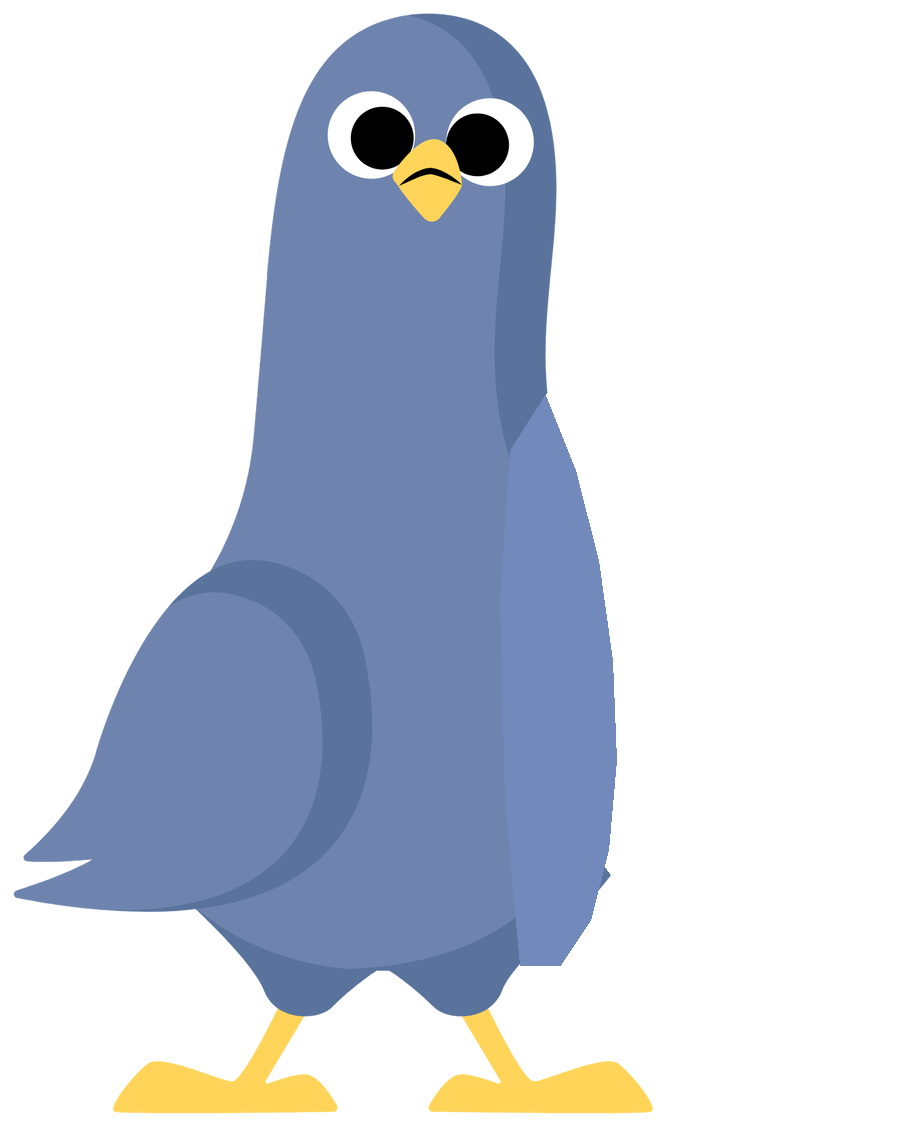
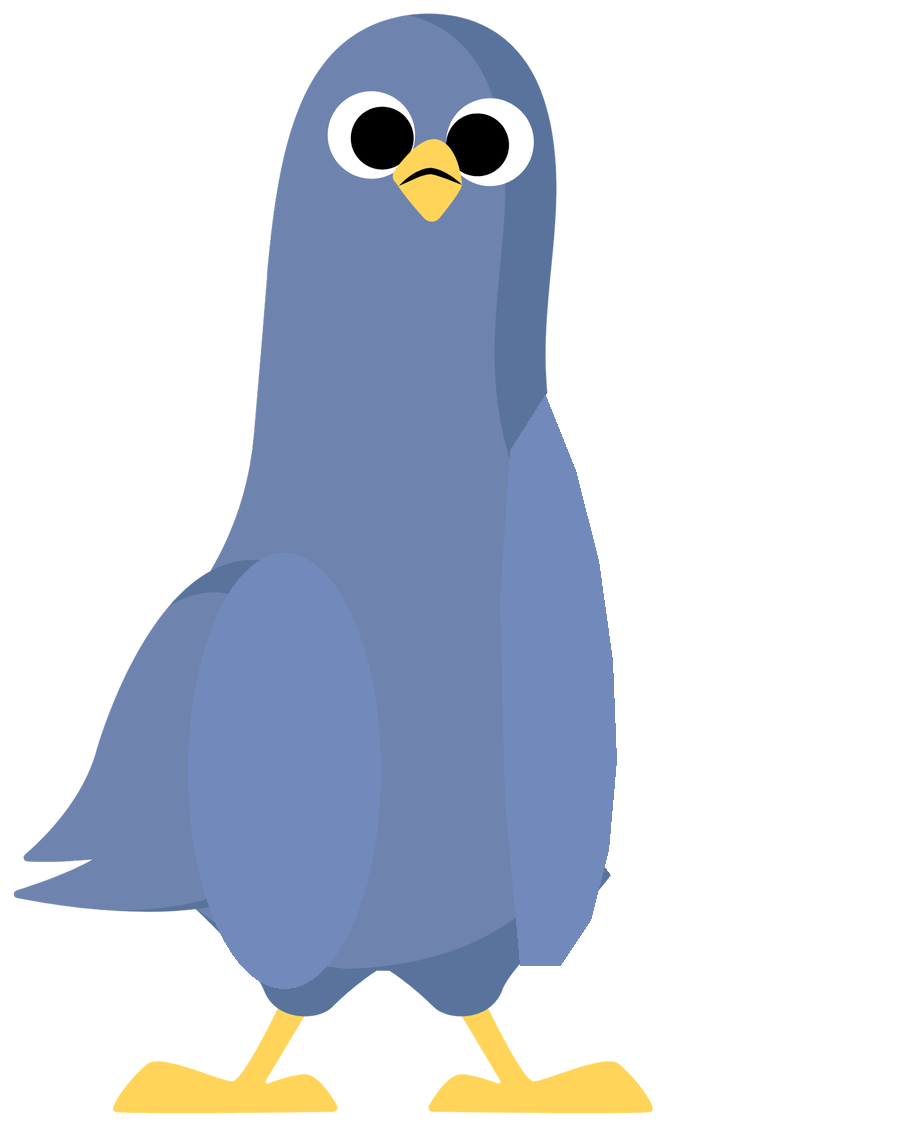
Zdaj: "zelo slaba" is a shoulder shrug with both wings
The folded wing on the chest becomes a third layer (golob-krilce.png) that lifts a little;
with the raised wing stretching and the shoulders going up, the pigeon shrugs twice in a
row. The tongue is gone from this mood.

Changed region(s): [[0.2178, 0.4969, 0.4356, 0.9006]]

diff --git a/src/theme.css b/src/theme.css
@@ -287,9 +287,9 @@ p { margin: 0; }
 .golob-mood-figure { position: absolute; inset: 0; transform-origin: 50% 90%; }
 .golob-layer { position: absolute; inset: 0; width: 100%; height: 100%; object-fit: contain; }
 .golob-layer.telo { z-index: 1; }
-.golob-layer.krilo { transform-origin: 63.3% 55%; z-index: 2; }
+.golob-layer.krilce { transform-origin: 32% 50%; z-index: 2; } /* folded wing: lifts from its top */
+.golob-layer.krilo { transform-origin: 63.3% 55%; z-index: 3; }
 .golob-part { position: absolute; inset: 0; width: 100%; height: 100%; overflow: visible; }
-.golob-mood-figure .golob-part { z-index: 3; } /* the tongue sits above both layers */
 .golob-mood.dobro .golob-mood-figure { animation: golob-dance 1.1s ease-in-out infinite; }
 .golob-mood.dobro .krilo { animation: golob-flap 0.55s ease-in-out infinite; }
 .golob-mood .note { opacity: 0; animation: golob-note 2.2s ease-out infinite; }
@@ -298,8 +298,10 @@ p { margin: 0; }
 .golob-mood.zmerno .krilo { animation: golob-soso 1.3s ease-in-out infinite; }
 .golob-mood.slabo .golob-mood-figure { animation: golob-shrug-body 2.4s ease-in-out infinite; }
 .golob-mood.slabo .krilo { animation: golob-shrug-wing 2.4s ease-in-out infinite; }
-.golob-mood.zeloslabo .krilo { animation: golob-droop 1.6s ease-in-out infinite; }
-.golob-mood.zeloslabo .tongue { transform-origin: 430px 212px; animation: golob-tongue 0.9s ease-in-out infinite; }
+/* zelo slaba: a shoulder shrug with both wings, twice in a row */
+.golob-mood.zeloslabo .golob-mood-figure { animation: golob-shrug2-body 2.6s ease-in-out infinite; }
+.golob-mood.zeloslabo .krilo { animation: golob-shrug2-wing 2.6s ease-in-out infinite; }
+.golob-mood.zeloslabo .krilce { animation: golob-shrug2-front 2.6s ease-in-out infinite; }
 .golob-mood.nevarno .golob-mood-figure { transform: translateY(26%) scale(0.92); animation: golob-tremble 0.14s linear infinite; }
 .golob-mood.nevarno .krilo { transform: scale(0.72, 0.8) rotate(10deg); }
 .golob-mood.nevarno .nest-back { z-index: 0; }
@@ -311,12 +313,14 @@ p { margin: 0; }
 @keyframes golob-soso { 0%, 100% { transform: scale(1.16, 0.96) rotate(-4deg); } 50% { transform: scale(1.16, 1.04) rotate(4deg); } }
 @keyframes golob-shrug-body { 0%, 55%, 100% { transform: translateY(0); } 70%, 85% { transform: translateY(-4%); } }
 @keyframes golob-shrug-wing { 0%, 55%, 100% { transform: scale(1, 1); } 70%, 85% { transform: scale(1.18, 1.06) rotate(-3deg); } }
-@keyframes golob-droop { 0%, 100% { transform: scale(0.86, 0.9) rotate(8deg); } 50% { transform: scale(0.84, 0.88) rotate(11deg); } }
-@keyframes golob-tongue { 0%, 100% { transform: scaleY(1) rotate(-6deg); } 50% { transform: scaleY(1.15) rotate(6deg); } }
+@keyframes golob-shrug2-body { 0%, 40%, 100% { transform: translateY(0) scaleY(1); } 50%, 60% { transform: translateY(-5%) scaleY(1.04); } 70% { transform: translateY(-1%) scaleY(1.01); } 80%, 90% { transform: translateY(-5%) scaleY(1.04); } }
+@keyframes golob-shrug2-wing { 0%, 40%, 100% { transform: scale(1, 1); } 50%, 60% { transform: scale(1.16, 1.08) rotate(-5deg); } 70% { transform: scale(1.04, 1.02); } 80%, 90% { transform: scale(1.16, 1.08) rotate(-5deg); } }
+@keyframes golob-shrug2-front { 0%, 40%, 100% { transform: translateY(0) rotate(0deg); } 50%, 60% { transform: translateY(-6%) rotate(-8deg); } 70% { transform: translateY(-1%); } 80%, 90% { transform: translateY(-6%) rotate(-8deg); } }
 @keyframes golob-tremble { 0%, 100% { transform: translate(-1.5%, 26%) scale(0.92); } 50% { transform: translate(1.5%, 26%) scale(0.92); } }
 @media (prefers-reduced-motion: reduce) {
-  .golob-mood .golob-mood-figure, .golob-mood .tongue, .golob-mood .krilo { animation: none; }
+  .golob-mood .golob-mood-figure, .golob-mood .krilo, .golob-mood .krilce { animation: none; }
   .golob-mood.zmerno .krilo { transform: scale(1.16, 1); }
-  .golob-mood.zeloslabo .krilo { transform: scale(0.86, 0.9) rotate(8deg); }
+  .golob-mood.zeloslabo .krilo { transform: scale(1.16, 1.08) rotate(-5deg); }
+  .golob-mood.zeloslabo .krilce { transform: translateY(-6%) rotate(-8deg); }
   .golob-mood .note { opacity: 1; animation: none; }
 }

diff --git a/src/components/Golob.tsx b/src/components/Golob.tsx
@@ -88,12 +88,12 @@ export function GolobMegla({ done, total = 4, size = 170, line }: { done: number
 
 /**
  * The pigeon acting out the air quality (Zdaj, under the advice) with its own wing: the drawing is split into
- * two layers on the same canvas (public/golob-telo.png, public/golob-krilo.png, made by scripts/cut_wings.py)
- * and the raised wing turns around its shoulder. Only the notes, the tongue and the nest are drawn extra.
+ * three layers on the same canvas (public/golob-telo.png, golob-krilce.png = the folded wing on the chest,
+ * golob-krilo.png = the raised wing; scripts/cut_wings.py). Only the notes and the nest are drawn extra.
  *  dobro      dances and flaps (notes)
  *  zmerno     holds the wing out and tilts it ("so-so")
  *  slabo      shrugs: the wing jerks up, the body hops
- *  zeloslabo  wing pointing down, tongue out
+ *  zeloslabo  a shoulder shrug with both wings
  *  nevarno    wing folded, hiding and trembling in a nest
  */
 export function GolobRazpolozenje({ level, size = 170 }: { level: LevelKey; size?: number }) {
@@ -103,7 +103,7 @@ export function GolobRazpolozenje({ level, size = 170 }: { level: LevelKey; size
     dobro: 'Golob pleše: zrak je dober.',
     zmerno: 'Golob maha s krilom: tako-tako.',
     slabo: 'Golob skomigne: zrak je slab.',
-    zeloslabo: 'Golob kaže s krilom navzdol in moli jezik: zrak je zelo slab.',
+    zeloslabo: 'Golob skomigne z obema kriloma: zrak je zelo slab.',
     nevarno: 'Golob se skriva in trese v gnezdu: zrak je nevaren.',
   }
   return (
@@ -115,10 +115,8 @@ export function GolobRazpolozenje({ level, size = 170 }: { level: LevelKey; size
       )}
       <div className="golob-mood-figure">
         <img className="golob-layer telo" src="/golob-telo.png" alt="" draggable={false} />
+        <img className="golob-layer krilce" src="/golob-krilce.png" alt="" draggable={false} />
         <img className="golob-layer krilo" src="/golob-krilo.png" alt="" draggable={false} />
-        <svg className="golob-part" viewBox={`0 0 ${W} ${H}`} aria-hidden="true">
-          {level === 'zeloslabo' && <path className="tongue" d="M408 212 q22 100 44 0 z" fill="#e86f8a" />}
-        </svg>
       </div>
       <svg className="golob-part" viewBox={`0 0 ${W} ${H}`} aria-hidden="true">
         {level === 'dobro' && (

diff --git a/scripts/cut_wings.py b/scripts/cut_wings.py
@@ -1,4 +1,4 @@
-"""Cut public/golob.png into two layers on the same 900x1127 canvas: body and the raised wing.
+"""Cut public/golob.png into three layers on the same 900x1127 canvas: body, the raised wing and the folded front wing.
 The body gets a body-coloured patch where a wing was, so nothing shows through when a wing moves."""
 import os
 from PIL import Image, ImageDraw
@@ -21,21 +21,30 @@ def layer(poly):
     return out, mask
 
 raised, m_r = layer(RAISED)
+# the folded wing on the chest is the darker oval; it lifts a little for a shoulder shrug
+FRONT_BOX = (188, 553, 380, 988)
+m_f = Image.new('L', (W, H), 0)
+ImageDraw.Draw(m_f).ellipse(FRONT_BOX, fill=255)
+front = Image.new('RGBA', (W, H), (0, 0, 0, 0))
+front.paste(im, (0, 0), m_f)
 body = im.copy()
 # remove the wings from the body, then paint the patches (only where the pigeon had pixels, to keep the silhouette)
 alpha = body.split()[3]
 d = ImageDraw.Draw(body)
 d.polygon(RAISED, fill=(0, 0, 0, 0))
+d.ellipse(FRONT_BOX, fill=(0, 0, 0, 0))
 patch = Image.new('RGBA', (W, H), (0, 0, 0, 0))
 pd = ImageDraw.Draw(patch)
 pd.polygon(PATCH_R, fill=BODY)
+pd.ellipse(FRONT_BOX, fill=BODY)
 body = Image.alpha_composite(body, patch)
 body.save('public/golob-telo.png', optimize=True)
 raised.save('public/golob-krilo.png', optimize=True)
+front.save('public/golob-krilce.png', optimize=True)
 # a preview with the raised wing rotated, to check the cut
 prev = body.copy()
 rw = raised.rotate(-70, center=(560, 420), resample=Image.BICUBIC)
 prev = Image.alpha_composite(prev, rw)
 prev.save(r'C:\Users\Alja\AppData\Local\Temp\claude\a1080d1396e4a37e\2c8f9bdd-8ba9-45b1-beea-04ae119678bb\scratchpad\wings_preview.png')
-for f in ('public/golob-telo.png', 'public/golob-krilo.png'):
+for f in ('public/golob-telo.png', 'public/golob-krilo.png', 'public/golob-krilce.png'):
     print(f, os.path.getsize(f))
